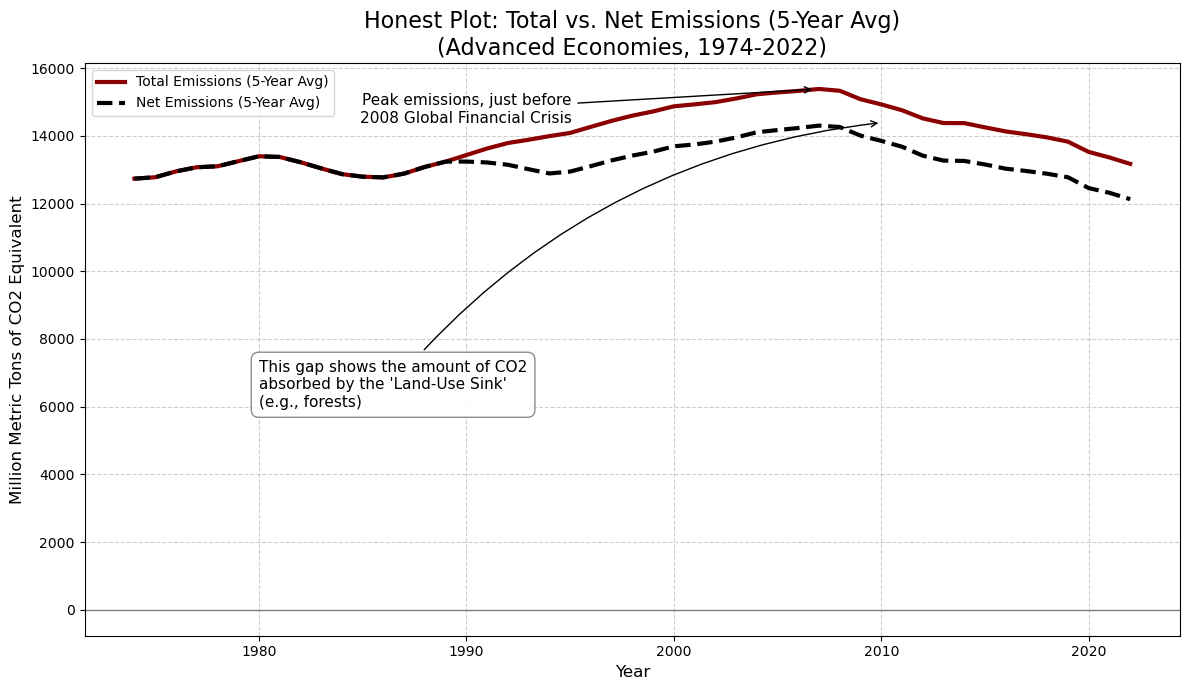
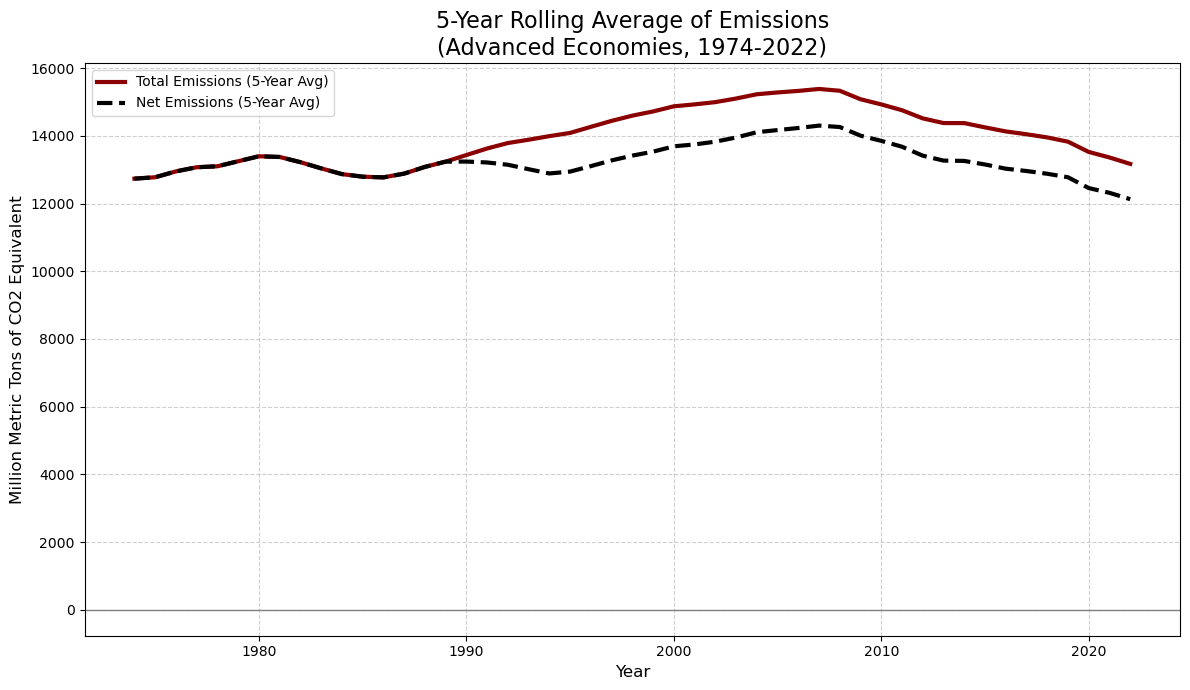
update honest plot

diff --git a/Project 2/project2_report.html b/Project 2/project2_report.html
@@ -152,14 +152,14 @@
     </header>
 
     <main>
-      <h2>Proposition: [STATE PROPOSITION]</h2>
+      <h2>Proposition: Emissions persist at elevated levels, and societal efforts to meaningfully mitigate their impact and associated harm are insufficient.</h2>
 
       <section>
         <h3>FOR the Proposition</h3>
 
         <figure>
-          <img src="IMAGE_FILENAME" alt="" />
-          <figcaption>BRIEF CAPTION HERE.</figcaption>
+          <img src="Honest.png" alt="" />
+          <figcaption>Rolling average of emissions from advanced economies from 1974-2022.</figcaption>
         </figure>
 
         <p>Design Decisions and Rationale:</p>
@@ -175,7 +175,7 @@
         <h3>AGAINST the Proposition</h3>
 
         <figure>
-          <img src="IMAGE_FILENAME" alt="" />
+          <img src="Deceit.png" alt="" />
           <figcaption>BRIEF CAPTION HERE.</figcaption>
         </figure>
 
